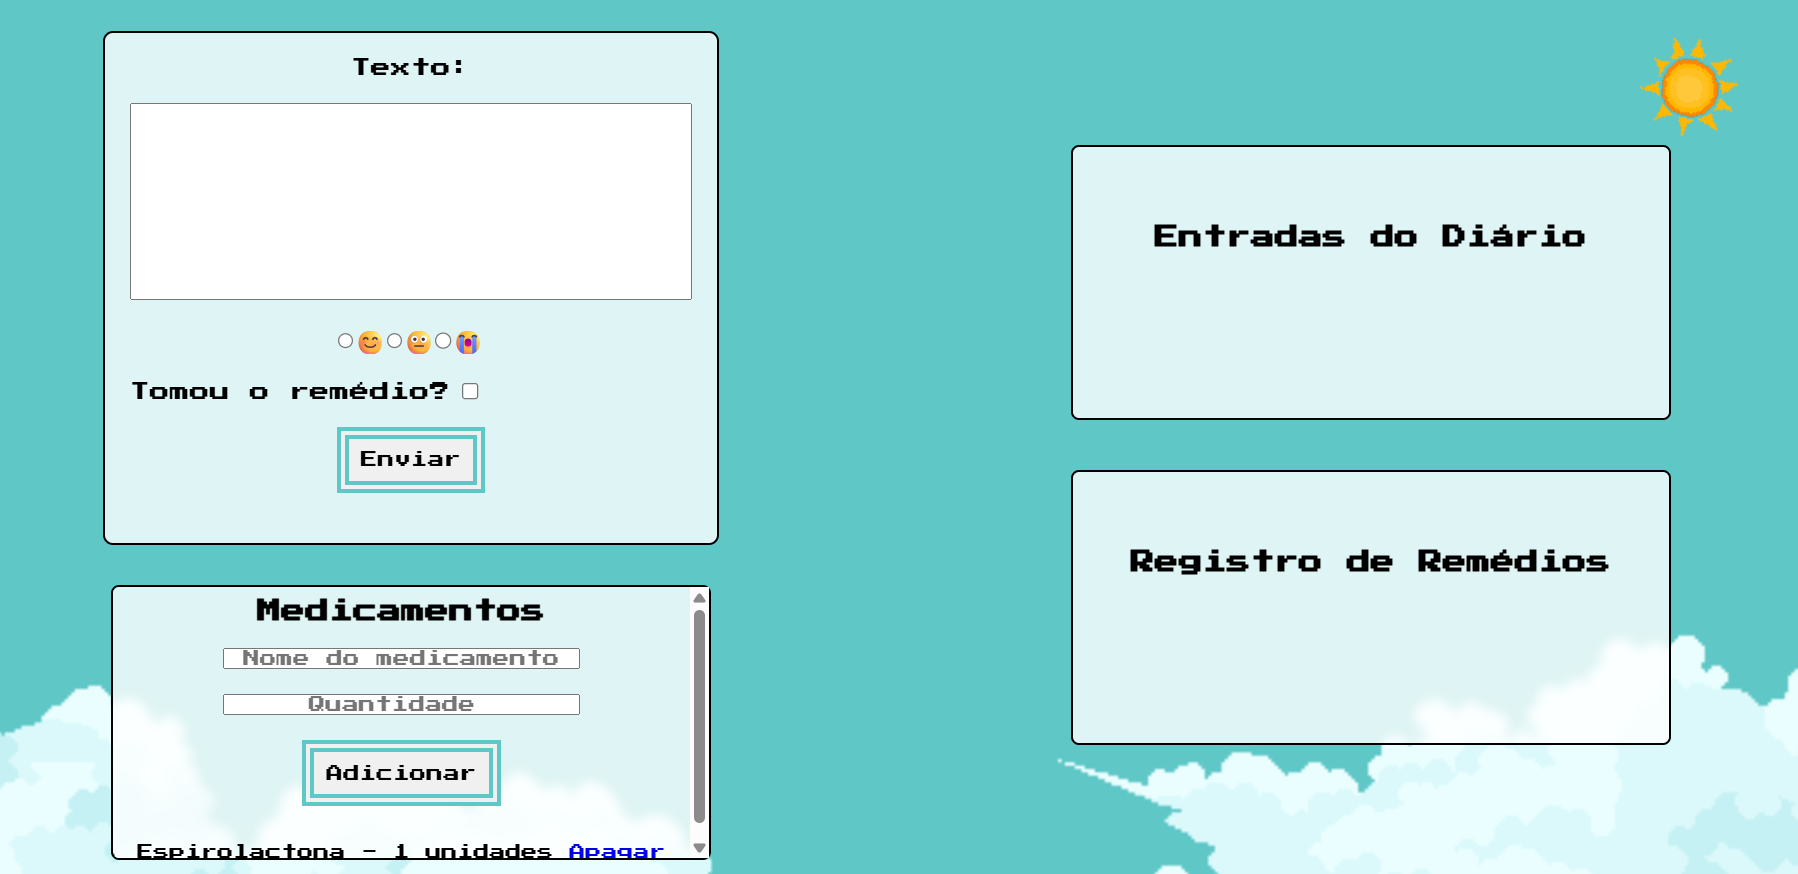
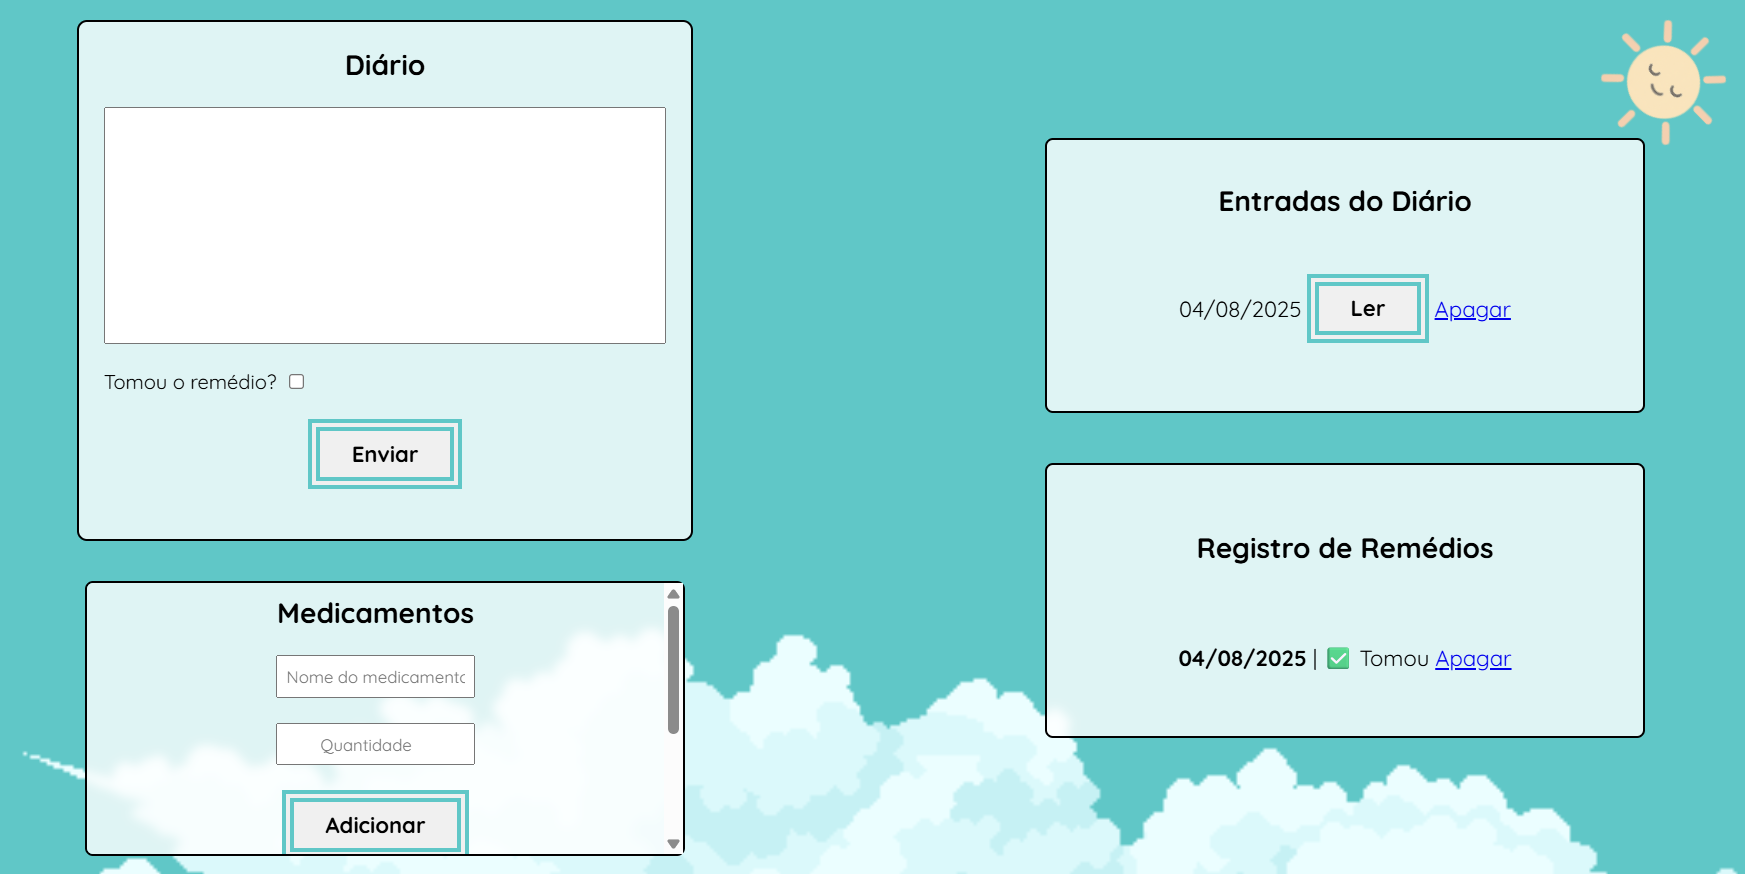
- Atualizar README.md, substituir imagens do sol e da lua, e ajustar estilos de botão e texto

Changed region(s): [[0.0, 0.0, 1.0, 1.0], [0.588, 0.0309, 0.9903, 0.4943], [0.7117, 0.9577, 0.7427, 0.9886]]

diff --git a/templates/index.html b/templates/index.html
@@ -12,19 +12,8 @@
       <div class="bloco-1">
         <div class="formulario">
         <form class="form_diario" action="/add_diario" method="post">
-          <label for="texto">Texto:</label>
+          <label class="label-texto" for="texto">Diário</label>
           <textarea name="texto" id="texto" cols="30" rows="10"></textarea>
-      
-          <div class="humor">
-            <input type="radio" id="feliz" name="humor" value="feliz">
-            <label for="feliz">😊</label>
-      
-            <input type="radio" id="medio" name="humor" value="médio">
-            <label for="médio">😐</label>
-      
-            <input type="radio" id="triste" name="humor" value="triste">
-            <label for="triste">😭</label>
-          </div>
       
           <div class="remedio">
             <label for="remedio">Tomou o remédio?</label>
@@ -70,10 +59,10 @@
             <li>
               {% if d.emoji %}
               {{ d.emoji | title }} - {{ d.data }}
-              <button onclick="openModal(`{{ texto | escape }}`)">Ler</button>
+              <button onclick="openModal(`{{ d.texto | escape }}`)">Ler</button>
               {% else %}
               {{ d.data }}
-              <button onclick="openModal(`{{ texto | escape }}`)">Ler</button>
+              <button onclick="openModal(`{{ d.texto | escape }}`)">Ler</button>
               {% endif %}
               <a href="javascript:void(0);" onclick="askDelete('/delete_diario/{{ d.id }}')">Apagar</a>
             </li>
@@ -132,7 +121,7 @@
 
     </main>
 
-    <img class="sun" src="../static/img/new_sun.png">
+    <img class="sun" src="../static/img/sun.png">
 
     <script src="../static/script.js"></script>
 </body>

diff --git a/static/style.css b/static/style.css
@@ -1,7 +1,7 @@
-@import url('https://fonts.googleapis.com/css2?family=Press+Start+2P&display=swap');
+@import url('https://fonts.googleapis.com/css2?family=Quicksand:wght@300..700&display=swap');
 
 :root {
-    --default-font: "Press Start 2P", system-ui;
+    --default-font: "Quicksand", sans-serif;
     --white-mode-color: #60c7c7;
     --black-mode-color: #0a004cff;
     --white-mode-text-border: #000;
@@ -105,14 +105,16 @@ textarea {
 button {
   align-self: center;
   margin-bottom: 20px;
-  padding: 10px;
+  padding: 7px 25px;
   border: double 10px var(--white-mode-color);
   cursor: pointer;
+  font-weight: bold;
+  font-size: 1.1rem;
 }
 
 button:hover {
   background-color: rgba(199, 199, 199, 0.133);
-  transition: all 0.2s linear;
+  transition: all 0.1s linear;
 }
 
 body.dark-mode button {
@@ -122,6 +124,10 @@ body.dark-mode button {
 body.dark-mode button:hover {
   background-color: rgba(212, 212, 212, 0.099);
   color: var(--black-mode-text-border);
+}
+
+textarea {
+  font-weight: 600;
 }
 
 .humor {
@@ -140,6 +146,7 @@ body.dark-mode button:hover {
 
 .resposta ul li {
   list-style-type: none;
+  font-size: 1.1rem;
 }
 
 .conteudo-1, .conteudo-2 {
@@ -156,6 +163,14 @@ body.dark-mode button:hover {
     overflow-y: auto;
 }
 
+.conteudo-3 ul li {
+  font-size: 1.1rem;
+}
+
+.conteudo-3 input {
+  padding: 7px;
+}
+
 .conteudo-1 ul, .conteudo-2 ul {
     display: flex;
     flex-direction: column;
@@ -164,6 +179,12 @@ body.dark-mode button:hover {
 
 .conteudo-1 h2, .conteudo-2 h2 {
     margin-bottom: 20px;
+    font-size: 1.4rem;
+}
+
+.label-texto {
+  font-size: 1.4rem;
+  font-weight: bold;
 }
 
 .modal {

diff --git a/static/script.js b/static/script.js
@@ -15,7 +15,7 @@ window.addEventListener("DOMContentLoaded", () => {
             btn.style.border = "double 10px blue";
         });
     } else {
-        sun.src = "../static/img/new_sun.png";
+        sun.src = "../static/img/sun.png";
     }
 }
 );
@@ -44,10 +44,10 @@ document.getElementById("confirmDelete").addEventListener("click", function () {
 });
 
 sunToMoon.addEventListener("click", function () {
-    if (sunToMoon.src.includes("new_sun.png")) {
+    if (sunToMoon.src.includes("sun.png")) {
         sunToMoon.src = "../static/img/moon.png";
     } else {
-        sunToMoon.src = "../static/img/new_sun.png";
+        sunToMoon.src = "../static/img/sun.png";
     }
 });
 

diff --git a/README.md b/README.md
@@ -56,15 +56,11 @@ Veja todas as dependências no arquivo `requirements.txt`.
 * [ ] Senha
 * [ ] Filtrar entradas por data
 * [ ] Melhorar estilo e responsividade
+* [ ] Remover entrada de emoji no banco de dados
 
 
-## ❤ Agradecimentos 
 
-Meu amigo Tom por sempre acreditar em mim e me ajudar a arrumar essa documentação no futuro que fiz. ❤
-
-Meu colega [Vice](https://poeiraeestelar.blogspot.com/) que fez esse sol e lua maravilhosos que rodam sem parar. ☀
-
-## 🎨 Outros Materiais Utilizados
+## 🎨 Materiais Utilizados
 
 Nuvens: https://free-game-assets.itch.io/free-sky-with-clouds-background-pixel-art-set
 
